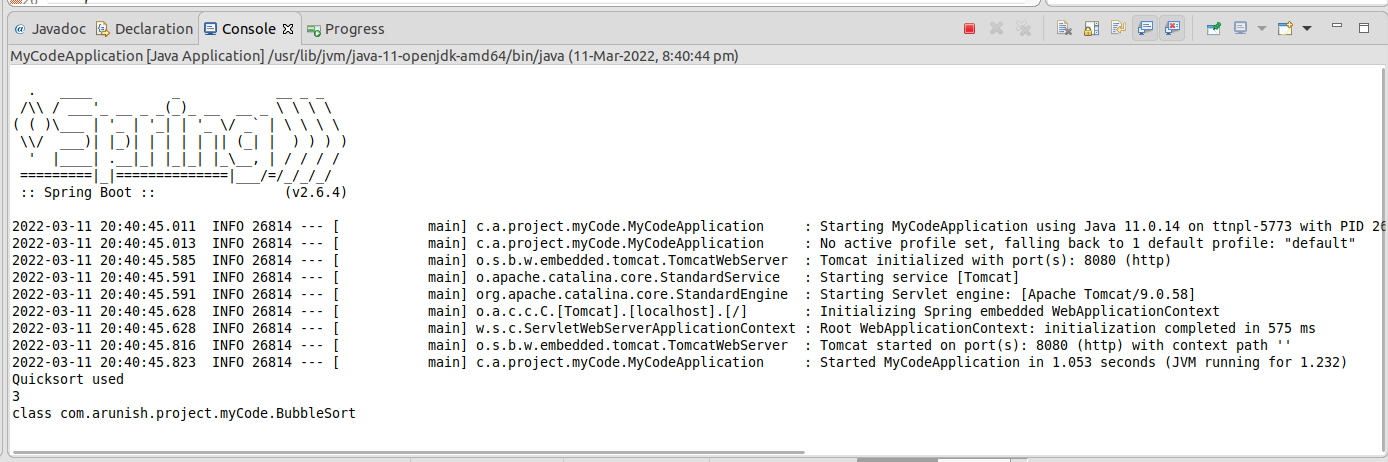
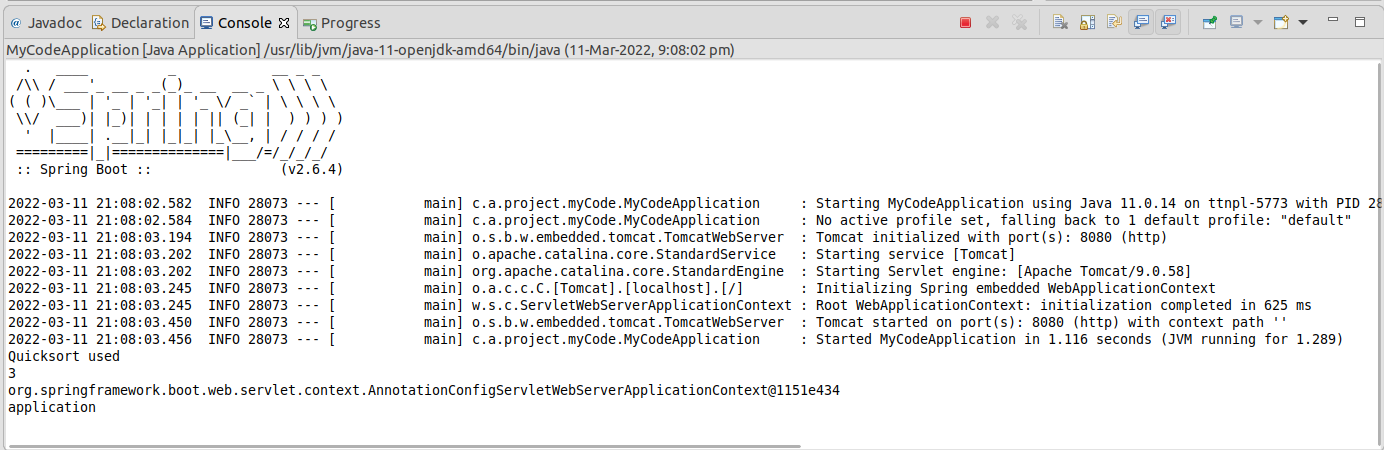
Add files via upload

Changed region(s): [[0.0, 0.0, 1.0, 1.0], [0.3107, 0.4356, 1.0, 0.8089]]

diff --git a/Spring_framework/Q_4/MyCodeApplication.java b/Spring_framework/Q_4/MyCodeApplication.java
@@ -20,8 +20,8 @@ public class MyCodeApplication {
 		System.out.println(result);
 	
 		//display properties of one bean
-	
-        System.out.println(applicationContext.getBean("bubbleSort").getClass());
+        System.out.println(applicationContext.getDisplayName());
+        System.out.println(applicationContext.getId());
         
 	}
 
